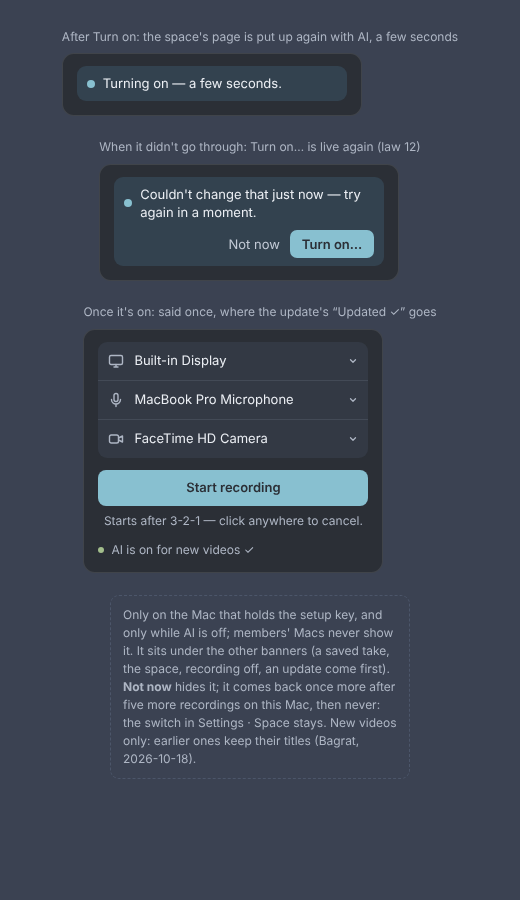
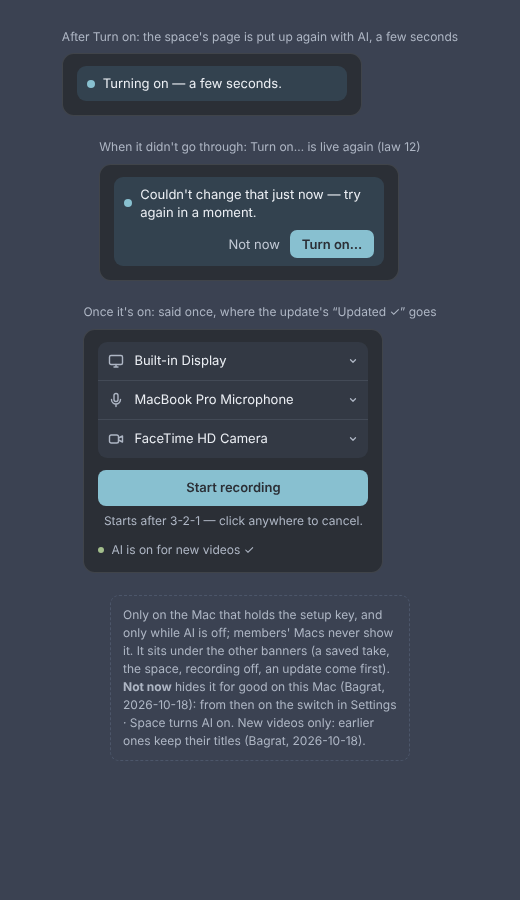
boards: the turn-on approved as drawn, Not now for good, the price per video hour
The banner, confirm, banner states and Settings boards say they're approved
(Bagrat, 2026-10-18; he may tweak the words later); the banner's note says Not
now hides it for good; the cost line and the landing's agreed line say per
video hour; the privacy board is approved as drafted and built.

Changed region(s): [[0.2462, 0.7467, 0.7692, 0.8711]]

diff --git a/dev/proposals/ai-titles-chapters/boards/AiPrivacy.dc.html b/dev/proposals/ai-titles-chapters/boards/AiPrivacy.dc.html
@@ -21,7 +21,7 @@ a{color:#88c0d0}a:hover{color:#8fbcbb}
 <li><div style="margin-left: -6px; padding: 8px 12px 8px 10px; border-left: 3px solid #88c0d0; border-radius: 0 9px 9px 0; background: rgba(136, 192, 208, 0.08)"><b style="color: #eceff4; font-weight: 600">AI, if you turn it on,</b> runs in your own Cloudflare account: it hears what’s said in your new videos to name them and add chapters and captions. What it hears stays in your space and goes when you delete the video; it never reaches us. <span style="color: #aeb6c4; font-style: italic">When you say “shroom cut”, the slip is cut from what viewers get; the words cut stay in your space, and only you see them.</span></div></li>
 <li><b style="color: #eceff4; font-weight: 600">The app</b> talks to your Cloudflare account (to set it up, upload your videos and manage your space) and to GitHub (to check for updates, sending no ID or version) …</li>
 </ul>
-<div style="padding: 10px 12px; border: 1px dashed #4c566a; border-radius: 9px; color: #aeb6c4; font-size: 12px; line-height: 1.5">A draft for Bagrat’s OK: one new point, right after “Your videos”, in the page’s own words (true to the build: the space hears new videos only while AI is on, keeps the words at rec/&lt;id&gt;/ai/, and deleting a video clears everything under it). The grey sentence after it is the voice cuts’ line (N65, theirs), so the two read as one point. The rest of the page as it is; its date moves to the day this lands.</div>
+<div style="padding: 10px 12px; border: 1px dashed #4c566a; border-radius: 9px; color: #aeb6c4; font-size: 12px; line-height: 1.5">Approved as drafted (Bagrat, 2026-10-18) and built (site/pages/privacy.html): one new point, right after “Your videos”, in the page’s own words (true to the build: the space hears new videos only while AI is on, keeps the words at rec/&lt;id&gt;/ai/, and deleting a video clears everything under it). The grey sentence after it is the voice cuts’ line (N65, theirs), so the two read as one point. The rest of the page as it is; its date reads 18 October 2026.</div>
 </div>
 </x-dc>
 <script type="text/x-dc" data-dc-script data-props='{"$preview":{"width":760,"height":560}}'>

diff --git a/dev/proposals/ai-titles-chapters/boards/LandingAiLine.dc.html b/dev/proposals/ai-titles-chapters/boards/LandingAiLine.dc.html
@@ -19,10 +19,10 @@ a{color:#88c0d0}a:hover{color:#8fbcbb}
 <div style="display: flex; flex-direction: row; justify-content: space-between; gap: 12px; font-size: 15px; color: #aeb6c4"><span><strong style="color: #88c0d0; font-weight: 600">$0</strong> · about three hours of video</span><span><strong style="color: #eceff4; font-weight: 600">$1.50 /month</strong> · about thirty hours</span></div>
 <div style="display: flex; flex-direction: row; align-items: flex-start; gap: 8px; margin-top: 10px; font-size: 15px; color: #aeb6c4">
 <svg viewBox="0 0 16 16" aria-hidden="true" style="width: 16px; height: 16px; fill: none; stroke: #88c0d0; stroke-width: 1.4; stroke-linecap: round; stroke-linejoin: round; display: block; flex: none; margin-top: 3px"><path d="M8 2.5l1.3 3.2 3.2 1.3-3.2 1.3L8 11.5 6.7 8.3 3.5 7l3.2-1.3z"></path></svg>
-<span>AI titles, chapters and captions are free for about 2½ hours of new video a day. Recording more? About 4¢ an hour on Cloudflare’s $5 plan.</span>
+<span>AI titles, chapters and captions are free for about 2½ hours of new video a day. Recording more? About 4¢ per video hour on Cloudflare’s $5 plan.</span>
 </div>
 </div>
-<div style="padding: 10px 12px; border: 1px dashed #4c566a; border-radius: 9px; color: #aeb6c4; font-size: 12px; line-height: 1.5">A proposal for where the line sits: under the price gauge, the storage price above it, in the gauge's own grey. The rest of the page as it is.</div>
+<div style="padding: 10px 12px; border: 1px dashed #4c566a; border-radius: 9px; color: #aeb6c4; font-size: 12px; line-height: 1.5">The agreed line (Bagrat, 2026-10-18). It goes up with the homepage's redesign, not before; this board shows one place it could sit: under the price gauge, in the gauge's own grey.</div>
 </div>
 </x-dc>
 <script type="text/x-dc" data-dc-script data-props='{"$preview":{"width":840,"height":300}}'>

diff --git a/dev/proposals/ai-titles-chapters/boards/AiBannerStates.dc.html b/dev/proposals/ai-titles-chapters/boards/AiBannerStates.dc.html
@@ -52,7 +52,7 @@ a{color:#88c0d0}a:hover{color:#8fbcbb}
 <span style="width: 6px; height: 6px; border-radius: 3px; background: #a3be8c; display: block; flex: none"></span>
 <div data-said="ai-on.ai-is-on-for">AI is on for new videos ✓</div>
 </div></div></div>
-<div style="width: 300px"><div style="padding: 10px 12px; border: 1px dashed #4c566a; border-radius: 9px; color: #aeb6c4; font-size: 12px; line-height: 1.5">Only on the Mac that holds the setup key, and only while AI is off; members' Macs never show it. It sits under the other banners (a saved take, the space, recording off, an update come first). <b>Not now</b> hides it; it comes back once more after five more recordings on this Mac, then never: the switch in Settings · Space stays. New videos only: earlier ones keep their titles (Bagrat, 2026-10-18).</div></div>
+<div style="width: 300px"><div style="padding: 10px 12px; border: 1px dashed #4c566a; border-radius: 9px; color: #aeb6c4; font-size: 12px; line-height: 1.5">Only on the Mac that holds the setup key, and only while AI is off; members' Macs never show it. It sits under the other banners (a saved take, the space, recording off, an update come first). <b>Not now</b> hides it for good on this Mac (Bagrat, 2026-10-18): from then on the switch in Settings · Space turns AI on. New videos only: earlier ones keep their titles (Bagrat, 2026-10-18).</div></div>
 </div>
 </x-dc>
 <script type="text/x-dc" data-dc-script data-props='{"$preview":{"width":520,"height":900}}'>

diff --git a/dev/proposals/ai-titles-chapters/boards/AiConfirm.dc.html b/dev/proposals/ai-titles-chapters/boards/AiConfirm.dc.html
@@ -25,7 +25,7 @@ a{color:#88c0d0}a:hover{color:#8fbcbb}
 <div style="width: 300px; box-sizing: border-box; background: #2b2f36; border: 1px solid rgba(255, 255, 255, 0.1); border-radius: 12px; box-shadow: 0 8px 28px rgba(0, 0, 0, 0.3); padding: 12px 14px 14px 14px; display: flex; flex-direction: column; gap: 12px">
 <div style="display: flex; flex-direction: column; gap: 6px">
 <h1 style="margin: 0; font-size: 15px; font-weight: 600; line-height: 1.35" data-said="ai-confirm.turn-on-ai-for">Turn on AI for new videos?</h1>
-<div style="color: #c3cad6" data-said="ai-confirm.titles-chapters-and-captions">Titles, chapters and captions from what’s said, and your “shroom cut” slips cut — on your own Cloudflare account. Free for about 2½ hours of new video a day; more is about 4¢ an hour on Cloudflare’s $5 plan.</div>
+<div style="color: #c3cad6" data-said="ai-confirm.titles-chapters-and-captions">Titles, chapters and captions from what’s said, and your “shroom cut” slips cut — on your own Cloudflare account. Free for about 2½ hours of new video a day; more is about 4¢ per video hour on Cloudflare’s $5 plan.</div>
 </div>
 <div style="display: flex; flex-direction: row; justify-content: space-between; align-items: center; gap: 8px">
 <button style="font: inherit; height: 32px; padding: 0 14px; border: 1px solid #4c566a; border-radius: 8px; background: transparent; color: #eceff4" data-said="ai-confirm.back">Back</button>

diff --git a/dev/proposals/ai-titles-chapters/boards/AiSettings.dc.html b/dev/proposals/ai-titles-chapters/boards/AiSettings.dc.html
@@ -54,7 +54,7 @@ a{color:#88c0d0}a:hover{color:#8fbcbb}
 <div style="border-top: 1px solid #434a56"><div style="padding: 10px 12px; display: flex; flex-direction: row; align-items: center; gap: 10px">
 <span style="flex: 1 1 0; display: flex; flex-direction: column">
 <span id="ai-label" data-said="settings-space.ai-for-new-videos">AI for new videos</span>
-<span style="color: #aeb6c4; font-size: 12px" data-said="settings-space.titles-chapters-and-captions">Titles, chapters and captions from what’s said, and your “shroom cut” slips cut — on your own Cloudflare account. Free for about 2½ hours of new video a day; more is about 4¢ an hour on Cloudflare’s $5 plan.</span>
+<span style="color: #aeb6c4; font-size: 12px" data-said="settings-space.titles-chapters-and-captions">Titles, chapters and captions from what’s said, and your “shroom cut” slips cut — on your own Cloudflare account. Free for about 2½ hours of new video a day; more is about 4¢ per video hour on Cloudflare’s $5 plan.</span>
 </span>
 <button role="switch" aria-checked="false" aria-labelledby="ai-label" style="width: 36px; height: 20px; border: 0; border-radius: 10px; background: #4c566a; padding: 2px; display: flex; flex-direction: row; justify-content: flex-start; align-items: center; flex: none"><span style="width: 16px; height: 16px; border-radius: 8px; background: #d8dee9; display: block"></span></button>
 </div></div>

diff --git a/dev/proposals/ai-titles-chapters/boards/make-boards.py b/dev/proposals/ai-titles-chapters/boards/make-boards.py
@@ -295,10 +295,10 @@ def settings_body(ai_on, ai_line, ai_line_id):
 </div></div>'''
 
 AI_LABEL = "AI for new videos"
-AI_LINE = "Titles, chapters and captions from what’s said, and your “shroom cut” slips cut — on your own Cloudflare account. Free for about 2½ hours of new video a day; more is about 4¢ an hour on Cloudflare’s $5 plan."
+AI_LINE = "Titles, chapters and captions from what’s said, and your “shroom cut” slips cut — on your own Cloudflare account. Free for about 2½ hours of new video a day; more is about 4¢ per video hour on Cloudflare’s $5 plan."
 FAILED = "Couldn't change that just now — try again in a moment."
 boards["AiSettings.dc.html"] = (
-    "Settings — Space: AI for new videos, one switch for every AI feature, off as it ships (the Mac that holds the setup key; N66, words are drafts)", 600, 760,
+    "Settings — Space: AI for new videos, one switch for every AI feature, off as it ships (the Mac that holds the setup key; N66, approved as drawn, Bagrat 2026-10-18; he may tweak the words later)", 600, 760,
     page("shroom Settings, Space, AI", 600, 760, settings_body(False, AI_LINE, "settings-space.titles-chapters-and-captions")))
 boards["AiSettingsFailed.dc.html"] = (
     "Settings — Space: AI couldn't change (the switch as the page has it, until the next try)", 600, 760,
@@ -392,12 +392,12 @@ def frost(line, line_id, buttons=True):
 </div>'''
 
 boards["AiBanner.dc.html"] = (
-    "Popover — the AI banner: shroom can name, chapter and cut your videos (the Mac that holds the setup key, while AI is off; N66, words are drafts)", 520, 520,
+    "Popover — the AI banner: shroom can name, chapter and cut your videos (the Mac that holds the setup key, while AI is off; N66, approved as drawn, Bagrat 2026-10-18; he may tweak the words later)", 520, 520,
     page("shroom popover, the AI banner", 520, 520, popover_frame(HEADER + "\n" + frost(BANNER_LINE, "ai-offer.shroom-can-name-your") + "\n" + CONFIG)))
 
 CONFIRM_TITLE = "Turn on AI for new videos?"
 boards["AiConfirm.dc.html"] = (
-    "Popover — Turn on…: what it does and costs, once (N66, words are drafts)", 520, 520,
+    "Popover — Turn on…: what it does and costs, once (N66, approved as drawn, Bagrat 2026-10-18; he may tweak the words later)", 520, 520,
     page("shroom popover, turn on AI", 520, 520, popover_frame(f'''<div style="display: flex; flex-direction: column; gap: 6px">
 <h1 style="margin: 0; font-size: 15px; font-weight: 600; line-height: 1.35" data-said="ai-confirm.turn-on-ai-for">{CONFIRM_TITLE}</h1>
 <div style="color: #c3cad6" data-said="ai-confirm.titles-chapters-and-captions">{AI_LINE}</div>
@@ -419,13 +419,13 @@ def states_body():
 {panel("After Turn on: the space's page is put up again with AI, a few seconds", frost("Turning on — a few seconds.", "ai-turning-on.turning-on-a-few", buttons=False))}
 {panel("When it didn't go through: Turn on… is live again (law 12)", frost(FAILED, "ai-offer-failed.couldnt-change-that-just"))}
 {panel("Once it's on: said once, where the update's “Updated ✓” goes", CONFIG + status)}
-<div style="width: 300px">{note("Only on the Mac that holds the setup key, and only while AI is off; members' Macs never show it. It sits under the other banners (a saved take, the space, recording off, an update come first). <b>Not now</b> hides it; it comes back once more after five more recordings on this Mac, then never: the switch in Settings · Space stays. New videos only: earlier ones keep their titles (Bagrat, 2026-10-18).")}</div>
+<div style="width: 300px">{note("Only on the Mac that holds the setup key, and only while AI is off; members' Macs never show it. It sits under the other banners (a saved take, the space, recording off, an update come first). <b>Not now</b> hides it for good on this Mac (Bagrat, 2026-10-18): from then on the switch in Settings · Space turns AI on. New videos only: earlier ones keep their titles (Bagrat, 2026-10-18).")}</div>
 </div>'''
 boards["AiBannerStates.dc.html"] = (
-    "Popover — the AI banner's states: turning on, didn't go through, on (N66, words are drafts)", 520, 900,
+    "Popover — the AI banner's states: turning on, didn't go through, on (N66, approved as drawn, Bagrat 2026-10-18; he may tweak the words later)", 520, 900,
     page("shroom popover, the AI banner's states", 520, 900, states_body()))
 
-# ───────── shroom.am: where AI's price sits (a proposal; the line is the one Bagrat saw) ─────────
+# ───────── shroom.am: where AI's price sits (the agreed line; it goes up with the homepage's redesign) ─────────
 
 def landing_body():
     return f'''<div style="width: 840px; height: 300px; box-sizing: border-box; background: #2b2f36; padding: 40px 48px; display: flex; flex-direction: column; gap: 14px; font-family: {FONT}; font-size: 16px; line-height: 1.5; color: #eceff4">
@@ -434,16 +434,16 @@ def landing_body():
 <div style="display: flex; flex-direction: row; justify-content: space-between; gap: 12px; font-size: 15px; color: #aeb6c4"><span><strong style="color: #88c0d0; font-weight: 600">$0</strong> · about three hours of video</span><span><strong style="color: #eceff4; font-weight: 600">$1.50 /month</strong> · about thirty hours</span></div>
 <div style="display: flex; flex-direction: row; align-items: flex-start; gap: 8px; margin-top: 10px; font-size: 15px; color: #aeb6c4">
 <svg viewBox="0 0 16 16" aria-hidden="true" style="width: 16px; height: 16px; fill: none; stroke: #88c0d0; stroke-width: 1.4; stroke-linecap: round; stroke-linejoin: round; display: block; flex: none; margin-top: 3px">{SPARK}</svg>
-<span>AI titles, chapters and captions are free for about 2½ hours of new video a day. Recording more? About 4¢ an hour on Cloudflare’s $5 plan.</span>
+<span>AI titles, chapters and captions are free for about 2½ hours of new video a day. Recording more? About 4¢ per video hour on Cloudflare’s $5 plan.</span>
 </div>
 </div>
-{note("A proposal for where the line sits: under the price gauge, the storage price above it, in the gauge's own grey. The rest of the page as it is.")}
+{note("The agreed line (Bagrat, 2026-10-18). It goes up with the homepage's redesign, not before; this board shows one place it could sit: under the price gauge, in the gauge's own grey.")}
 </div>'''
 boards["LandingAiLine.dc.html"] = (
-    "shroom.am — the AI line under the price gauge (a proposal; the line as Bagrat saw it, 2026-10-18)", 840, 300,
+    "shroom.am — the AI line, agreed (Bagrat, 2026-10-18; it goes up with the homepage's redesign)", 840, 300,
     page("shroom.am, the AI line", 840, 300, landing_body()))
 
-# ───────── shroom.am/privacy: what the AI hears (a draft; the page's words change only with Bagrat's OK, as B180's did) ─────────
+# ───────── shroom.am/privacy: what the AI hears (approved as drafted, Bagrat 2026-10-18) ─────────
 
 PRIVACY_AI = "runs in your own Cloudflare account: it hears what’s said in your new videos to name them and add chapters and captions. What it hears stays in your space and goes when you delete the video; it never reaches us."
 PRIVACY_CUT = "When you say “shroom cut”, the slip is cut from what viewers get; the words cut stay in your space, and only you see them."
@@ -459,10 +459,10 @@ def privacy_body():
 <li><div style="margin-left: -6px; padding: 8px 12px 8px 10px; border-left: 3px solid #88c0d0; border-radius: 0 9px 9px 0; background: rgba(136, 192, 208, 0.08)"><b style="color: #eceff4; font-weight: 600">AI, if you turn it on,</b> {PRIVACY_AI} <span style="color: #aeb6c4; font-style: italic">{PRIVACY_CUT}</span></div></li>
 {li("The app", "talks to your Cloudflare account (to set it up, upload your videos and manage your space) and to GitHub (to check for updates, sending no ID or version) …")}
 </ul>
-{note("A draft for Bagrat’s OK: one new point, right after “Your videos”, in the page’s own words (true to the build: the space hears new videos only while AI is on, keeps the words at rec/&lt;id&gt;/ai/, and deleting a video clears everything under it). The grey sentence after it is the voice cuts’ line (N65, theirs), so the two read as one point. The rest of the page as it is; its date moves to the day this lands.")}
+{note("Approved as drafted (Bagrat, 2026-10-18) and built (site/pages/privacy.html): one new point, right after “Your videos”, in the page’s own words (true to the build: the space hears new videos only while AI is on, keeps the words at rec/&lt;id&gt;/ai/, and deleting a video clears everything under it). The grey sentence after it is the voice cuts’ line (N65, theirs), so the two read as one point. The rest of the page as it is; its date reads 18 October 2026.")}
 </div>'''
 boards["AiPrivacy.dc.html"] = (
-    "shroom.am/privacy — what the AI hears (a draft, 2026-10-18)", 760, 560,
+    "shroom.am/privacy — what the AI hears (approved as drafted, Bagrat 2026-10-18)", 760, 560,
     page("shroom.am/privacy, the AI point", 760, 560, privacy_body()))
 
 # One column right of the editor's, top to bottom: the Mac's boards, then the page's.
